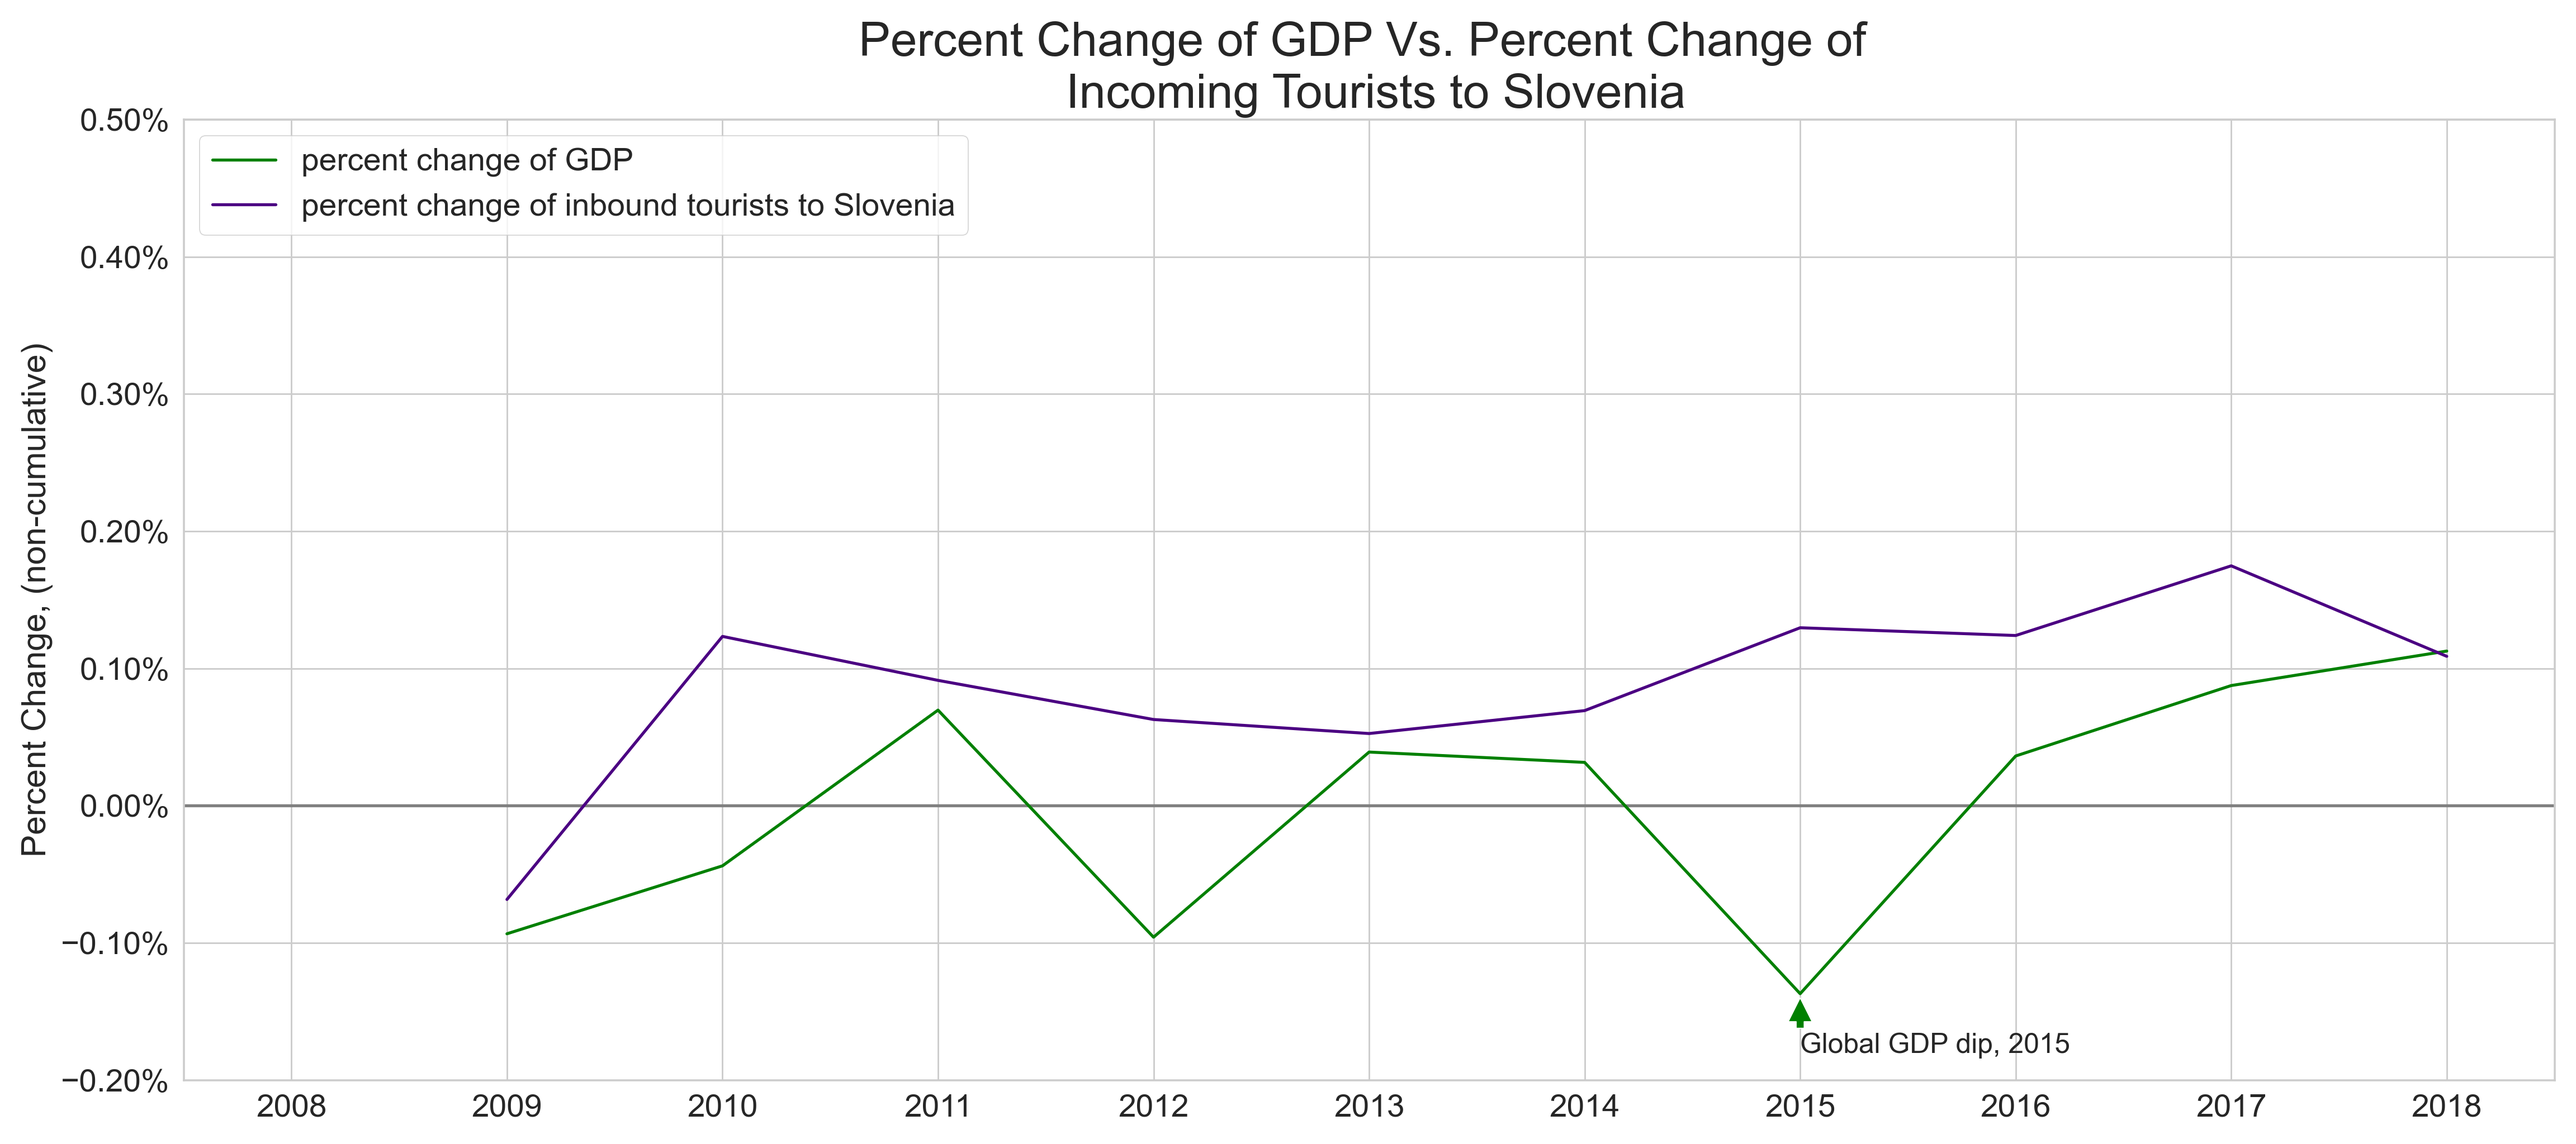
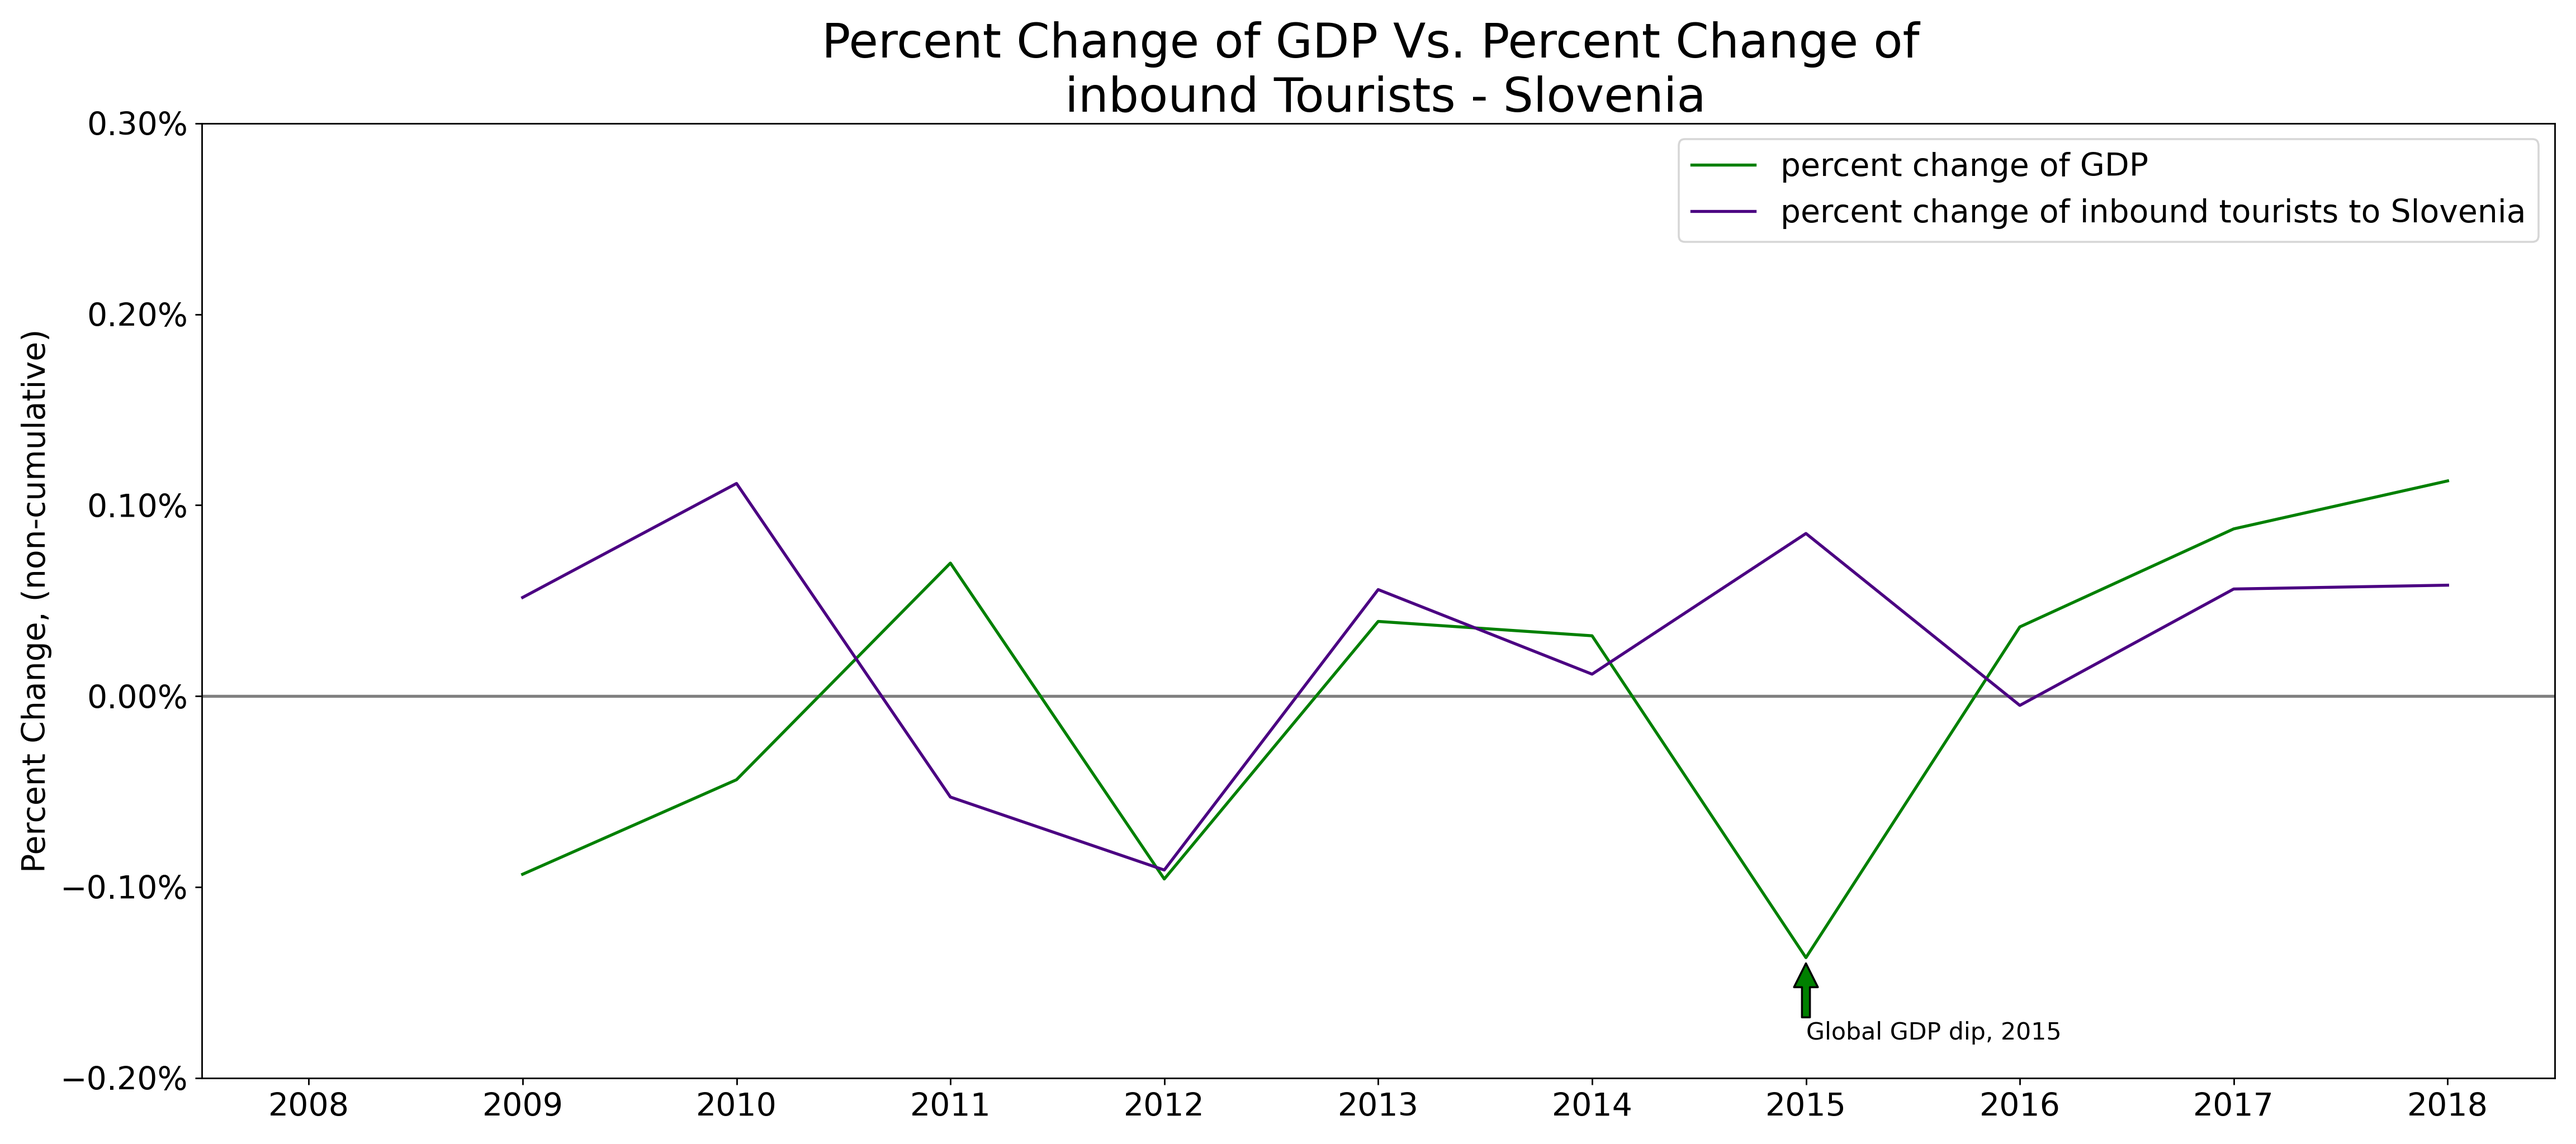
finalized some things

diff --git a/src/capstone1_graphing.py b/src/capstone1_graphing.py
@@ -11,67 +11,75 @@ from capstone1_scripts import *
 most_outbound_tourists = merged_inbound_and_outbound_tourists_df.groupby('Country').max('Outgoing_Tourists').sort_values('Outgoing_Tourists', ascending = False).reset_index()
 most_out = most_outbound_tourists.head()
 
+#Find the countries with the most, ever, incoming tourists, coming from the SUPPLY survey to look at their spread
 most_inbound_tourists_supply = merged_inbound_and_outbound_tourists_df.groupby('Country').max('Value.Supply').sort_values('Value.supply', ascending = False).reset_index()
 most_inb_supply = most_inbound_tourists_supply.head()
 
-#I want to include Iceland,  which is the 6th most incoming country ever
+#Find the countries with the most, ever, incoming tourists form the DEMAND survey
+# I want to include Iceland, which came in 6th
 most_inbound_tourists_demand = merged_inbound_and_outbound_tourists_df.groupby('Country').max('Value.demand').sort_values('Value.demand', ascending = False).reset_index()
 most_inb_demand = most_inbound_tourists_demand.head(6)
 
 
-## TO DO: make these next three code automated for all inbound or outbound, using the above variable dataframes
+
+## TO DO: Make functions to draw bar graphs 
+#for all inbound or outbound, using the above variable dataframes
 
 # ## This makes a Bar graph 5 countries with most outbounds of all time
-# sns.set_style('whitegrid')
+# (Year occurred in 2018)
+sns.set_style('whitegrid')
 
-# fig, ax = plt.subplots(1, 1, figsize = (18, 8), dpi = 256)
-# ax.bar(most_out['Country'], most_out['Outgoing_Tourists'], color = 'indianred')
-# ax.tick_params(axis='both', which='major', labelsize=18)
-# # ax.set_xlabel('Countries', fontsize = 20) #probably don't ened this, is self explanatory in the tick labels
-# ax.set_ylabel('Number of Outbound Tourists In 1 Year (in millions)',  fontsize = 20)
-# ax.set_title('Countries with Most Outbound Tourists in 2018', size = 30)
+fig, ax = plt.subplots(1, 1, figsize = (18, 8), dpi = 256)
+ax.bar(most_out['Country'], most_out['Outgoing_Tourists'], color = 'indianred')
+ax.tick_params(axis='both', which='major', labelsize=18)
+# ax.set_xlabel('Countries', fontsize = 20) #probably don't ened this, is self explanatory in the tick labels
+ax.set_ylabel('Number of Outbound Tourists In 1 Year (in millions)',  fontsize = 20)
+ax.set_title('Countries with Most Outbound Tourists in 2018', size = 30)
 
-# for idx, data in enumerate(most_out['Outgoing_Tourists']):
-#     plt.text(x=idx, y = data , s = f"{data: ,.0f}", ha = 'center', fontsize = 20, color = 'black')
-# plt.tight_layout()
-# # plt.show()
+for idx, data in enumerate(most_out['Outgoing_Tourists']):
+    plt.text(x=idx, y = data , s = f"{data: ,.0f}", ha = 'center', fontsize = 20, color = 'black')
+plt.tight_layout()
+# plt.show()
 
-## Plot countries with top most inbound of all time, coming from the supply survey (the year this occured = 2018)
+## This makes a Bar graph 5 countries with most inbounds of all time
+#  coming from the SUPPLY survey (the year this occured = 2018)
 
-# sns.set_style('whitegrid')
-# fig, ax = plt.subplots(1, 1, figsize = (18, 8), dpi = 256)
-# ax.bar(most_inb_supply['Country'], most_inb_supply['Value.supply'], color = 'cornflowerblue')
+sns.set_style('whitegrid')
+fig, ax = plt.subplots(1, 1, figsize = (18, 8), dpi = 256)
+ax.bar(most_inb_supply['Country'], most_inb_supply['Value.supply'], color = 'cornflowerblue')
 
-# ax.tick_params(axis='both', which='major', labelsize=18)
-# # ax.set_xlabel('Countries', fontsize = 20)
-# ax.set_ylabel('Number of Inbound Tourists In 1 Year (in millions)',  fontsize = 20)
-# ax.set_title('Countries with Most Inbound Tourists in 2018', size = 30)
+ax.tick_params(axis='both', which='major', labelsize=18)
+# ax.set_xlabel('Countries', fontsize = 20)
+ax.set_ylabel('Number of Inbound Tourists In 1 Year (in millions)',  fontsize = 20)
+ax.set_title('Countries with Most Inbound Tourists in 2018', size = 30)
 
-# for idx, data in enumerate(most_inb_supply['Value.supply']):
-#     plt.text(x=idx, y = data , s = f"{data: ,.0f}", ha = 'center', fontsize = 20, color = 'black')
-# plt.tight_layout()
-# # plt.show()
-
-''''''
-# # Plot countries with top most inbound of all time, coming from the supply survey (the year this occured = 2018)
-
-# sns.set_style('whitegrid')
-# fig, ax = plt.subplots(1, 1, figsize = (18, 8), dpi = 256)
-# ax.bar(most_inb_demand['Country'], most_inb_demand['Value.demand'], color = 'royalblue')
-
-# ax.tick_params(axis='both', which='major', labelsize=18)
-# # ax.set_xlabel('Countries', fontsize = 20)
-# ax.set_ylabel('Number of Inbound Tourists In 1 Year (in millions)',  fontsize = 20)
-# ax.set_title('Countries with Most Inbound Tourists in 2018  \n from the Demand survey', size = 30)
-
-# for idx, data in enumerate(most_inb_demand['Value.demand']):
-#     plt.text(x=idx, y = data , s = f"{data: ,.0f}", ha = 'center', fontsize = 20, color = 'black')
-# plt.tight_layout()
-
-
+for idx, data in enumerate(most_inb_supply['Value.supply']):
+    plt.text(x=idx, y = data , s = f"{data: ,.0f}", ha = 'center', fontsize = 20, color = 'black')
+plt.tight_layout()
+# plt.show()
 
 ''''''
-## TO DO; Make functions for these plots to graph any countries 
+# # ## This makes a Bar graph the countries with most inbounds of all time i
+# coming from the DEMAND survey (the year this occured = 2018)
+
+sns.set_style('whitegrid')
+fig, ax = plt.subplots(1, 1, figsize = (18, 8), dpi = 256)
+ax.bar(most_inb_demand['Country'], most_inb_demand['Value.demand'], color = 'royalblue')
+
+ax.tick_params(axis='both', which='major', labelsize=18)
+# ax.set_xlabel('Countries', fontsize = 20)
+ax.set_ylabel('Number of Inbound Tourists In 1 Year (in millions)',  fontsize = 20)
+ax.set_title('Countries with Most Inbound Tourists in 2018  \n from the Demand survey', size = 30)
+
+for idx, data in enumerate(most_inb_demand['Value.demand']):
+    plt.text(x=idx, y = data , s = f"{data: ,.0f}", ha = 'center', fontsize = 20, color = 'black')
+plt.tight_layout()
+#plt.show()
+
+
+''''''
+## TO DO: Make functions for these plots to graph ANY countries 
+## Currently they are set to only take in these partciular countries. 
 
 #Graph these top 5 outbound countries
 germany_out = make_df_to_graph('Germany', 'outbound').reset_index()
@@ -80,14 +88,16 @@ france_out =  make_df_to_graph('France', 'outbound').reset_index()
 netherlands_out =  make_df_to_graph('Netherlands', 'outbound').reset_index()
 sweden_out =  make_df_to_graph('Sweden', 'outbound').reset_index()
 
-def tourists_out_graph(action):
-
+def tourists_out_graph(show = False, save = False):
     '''
     Shows or saves the graph depending on the action
     passed in as an argument
 
     Parameters:
-        action (str): "show" or "save" to show the graph, or save it
+        show (bool): default to False. Change to True
+             to show the graph
+        save (bool) : default to False. Change to True
+            to save the graph 
 
     Returns:
         None
@@ -108,15 +118,19 @@ def tourists_out_graph(action):
     ax.set_title('Outgoing Tourists Over Time, \n for Countries with the Most Outgoing Tourists in 2018', fontsize = 20)
     plt.legend(fontsize = 16)
 
-    # if action == 'show':
-    #     plt.show()
-        
-    # elif action == "save":
-    #     plt.savefig('images/most_outgoing.png')
+    if show:
+        plt.show()
+
+    elif save:
+        plt.savefig('images/most_outgoing.png')
 
 ''''''
 
+
+
+
 ## Graph Incoming Tourists Over Time for Countries in the Supply survey
+
 
 #Countries with the most ever reported incoming tourists, according to the Supply source
 spain_in = make_df_to_graph('Spain', 'inbound').reset_index()
@@ -125,13 +139,16 @@ germany_in = make_df_to_graph('Germany', 'inbound').reset_index()
 austria_in = make_df_to_graph('Austria', 'inbound').reset_index()
 greece_in = make_df_to_graph('Greece', 'inbound').reset_index()
 
-def tourists_in_from_supply_graph(action):
+def tourists_in_from_supply_graph(show = False, save = False):
     '''
     Shows or saves the graph depending on the action
     passed in as an argument
 
     Parameters:
-        action (str): "show" or "save" to show the graph, or save it
+        show (bool): default to False. Change to True
+             to show the graph
+        save (bool) : default to False. Change to True
+            to save the graph 
 
     Returns:
         None
@@ -149,16 +166,21 @@ def tourists_in_from_supply_graph(action):
     plt.legend(fontsize = 16, numpoints = 1)
     plt.tight_layout()
 
-    # if action == 'show':
-    #     plt.show()
+    if show:
+        plt.show()
         
-    # elif action == "save":
-    #     plt.savefig('images/most_incoming_supply.png')
+    elif save:
+        plt.savefig('images/most_incoming_supply.png')
+
+
+
+
 
 
 ## Graph Incoming tourists over time for countries in the Demand survey 
 
 #Countries with the most ever reported incoming tourists, according to the Supply source
+## Make DataFrames to graph, ad reset the index to be able to input them in the functions as is below
 denmark_in = make_df_to_graph('Denmark', 'inbound').reset_index()
 sweden_in = make_df_to_graph('Sweden', 'inbound').reset_index()
 ireland_in = make_df_to_graph('Ireland', 'inbound').reset_index()
@@ -166,13 +188,16 @@ malta_in = make_df_to_graph('Malta', 'inbound').reset_index()
 iceland_in = make_df_to_graph('Iceland', 'inbound').reset_index()
 
 
-def tourists_in_from_demand_graph(action):
+def tourists_in_from_demand_graph(show = False, save = False):
     '''
     Shows or saves the graph depending on the action
     passed in as an argument
 
     Parameters:
-        action (str): "show" or "save" to show the graph, or save it
+        show (bool): default to False. Change to True
+             to show the graph
+        save (bool) : default to False. Change to True
+            to save the graph 
 
     Returns:
         None
@@ -193,17 +218,15 @@ def tourists_in_from_demand_graph(action):
     plt.legend(fontsize = 16, numpoints = 1)
     plt.tight_layout()
     
-    # if action == 'show':
-    #     plt.show()
+    if show:
+        plt.show()
         
-    # elif action == "save":
-    #     plt.savefig('../images/most_incoming_demand.png')
+    elif save:
+        plt.savefig('../images/most_incoming_demand.png')
 
 
 
-# TO DO: Make functions that make comparison graphs with simple arguments 
-
-
+# Functions that make comparison graphs with simple arguments 
 
 
 # Compare GDP and Country with regplot
@@ -255,7 +278,6 @@ def regplot_comparison_graph(country, indicator, color, y_lim = (-.2, 0.5), show
         plt.savefig(f"../images/{country}_gdp_{indicator}_reg.png")
 
 
-
 # Compare GDP and Country with line graph 
 
 def line_comparison_graph(country, indicator, color, y_lim = (-.2, 0.5), show = True, save = False):
@@ -296,13 +318,16 @@ def line_comparison_graph(country, indicator, color, y_lim = (-.2, 0.5), show = 
          ax.plot(gdp_pct_change.columns, pct_change_in.loc[country], color = color, label = f"percent change of outbound tourists from {country}")
         
     ax.yaxis.set_major_formatter(ticker.PercentFormatter())
-
-    # plt.annotate("Potential GDP reporting issue, 2015", xy = (6, -0.02), xytext = (6, -0.08), fontsize = 12, arrowprops =dict(facecolor ='green'))
+    
     ax.set_title(f"Percent Change of GDP Vs. Percent Change of \n {indicator} Tourists - {country}", fontsize = 24)
     ax.set_ylabel("Percent Change, (non-cumulative)", fontsize = 16)
     ax.legend(loc = "best", fontsize = 16)
+    
+    ## Optional annotate for the 2015 dip
+    #plt.annotate("Global GDP dip, 2015", xy = (7, -0.02), xytext = (7, -0.08), fontsize = 12, arrowprops =dict(facecolor ='green'))
+    
     plt.tight_layout()
-
+    
     if show: 
         plt.show()
     if save:
@@ -333,9 +358,8 @@ if __name__ == '__main__':
     # print (regplot_comparison_graph('Latvia', 'outbound', 'coral', y_lim=(-.2, 0.3), show = False, save = True))
     # print (regplot_comparison_graph('Romania', 'outbound', 'crimson', y_lim=(-.2, 0.3), show = False, save = True))
     
-    
-   #print (line_comparison_graph('France', 'inbound', 'purple', y_lim=(-.2, 0.3), show = False, save = True))
-    
-    
-    
+    # print (line_comparison_graph('France', 'inbound', 'purple', y_lim=(-.2, 0.3), show = False, save = True))
+    # print (line_comparison_graph('Slovenia', 'inbound', 'indigo', y_lim=(-.2, 0.3), show = False, save = True))
+    # print (line_comparison_graph('Iceland', 'inbound', 'midnightblue', y_lim=(-.2, 0.5), show = False, save = True))
+    # print (line_comparison_graph('Iceland', 'outbound', 'orangered', y_lim=(-.2, 0.5), show = False, save = True))
     pass

diff --git a/src/capstone1_scripts.py b/src/capstone1_scripts.py
@@ -234,7 +234,7 @@ cum_pct_change_out = cum_pct_change_out.T
 
 # Make dataframes of the percent changes to graph later 
 pct_change_in = pd.DataFrame(pct_dictionary_in).rename(index = {0:2008, 1: 2009, 2: 2010, 3:2011, 4:2012, 5:2013, 6:2014, 7:2015, 8:2016, 9:2017, 10:2018}).T
-pct_change_out = pct_change_in = pd.DataFrame(pct_dictionary_out).rename(index = {0:2008, 1: 2009, 2: 2010, 3:2011, 4:2012, 5:2013, 6:2014, 7:2015, 8:2016, 9:2017, 10:2018}).T
+pct_change_out = pd.DataFrame(pct_dictionary_out).rename(index = {0:2008, 1: 2009, 2: 2010, 3:2011, 4:2012, 5:2013, 6:2014, 7:2015, 8:2016, 9:2017, 10:2018}).T
 
 '''
 GDP DATA
@@ -249,8 +249,6 @@ gdp_by_years = gdp_by_years[gdp_by_years['Country Name'].isin(schen_eu_countries
 
 #Get the Percent Change of GDP DataFrame
 gdp_pct_change = gdp_by_years.set_index('Country Name').pct_change(axis = 'columns')
-
-
 
 
 
@@ -270,14 +268,19 @@ if __name__ == '__main__':
 
     # print (outbound_df.head())
     # print (all_outbound_tourists_df.head())
-    # print (all_outbound_tourists_df[all_outbound_tourists_df['Country']=='Germany'])
+   
+    # print (all_outbound_tourists_df[all_outbound_tourists_df['Country']=='Iceland']) #check membership
     # print (merged_inbound_and_outbound_tourists_df.columns)
 
     ## Find the top countries with most percent change of in and outbound tourists
-    # print ("list of final reported cumulative percent change for incoming tourists:", cum_pct_change_in.ffill(axis=1).iloc[:, -1].sort_values(ascending = False))
-    # print ("list of final reported cumulative percent change for outgoing tourists", cum_pct_change_out.ffill(axis=1).iloc[:, -1].sort_values(ascending = False))
-    #print (gdp.head())
+    # print ("list of final reported cumulative percent change for incoming tourists: \n", cum_pct_change_in.ffill(axis=1).iloc[:, -1].sort_values(ascending = False))
+    # print ("list of final reported cumulative percent change for outgoing tourists: \n", cum_pct_change_out.ffill(axis=1).iloc[:, -1].sort_values(ascending = False))
+    
+    # print ("Percent change of incoming tourists over time: \n", pct_change_in)
+    # print ("Percent change of outgoing tourists over time: \n", pct_change_out)
+    
+    # print (gdp.head())
     # print (gdp_by_years.head())
-    # print (gdp_pct_change)
-    print ("list of final reported cumulative percent change of GDP, gdp_pct_change.ffill(axis=1).iloc[:, -1].sort_values(ascending = False))
+    # print ("GDP percent change over time: \n", gdp_pct_change)
+    # print ("list of final reported cumulative percent change of GDP:", gdp_pct_change.ffill(axis=1).iloc[:, -1].sort_values(ascending = False))
     pass
